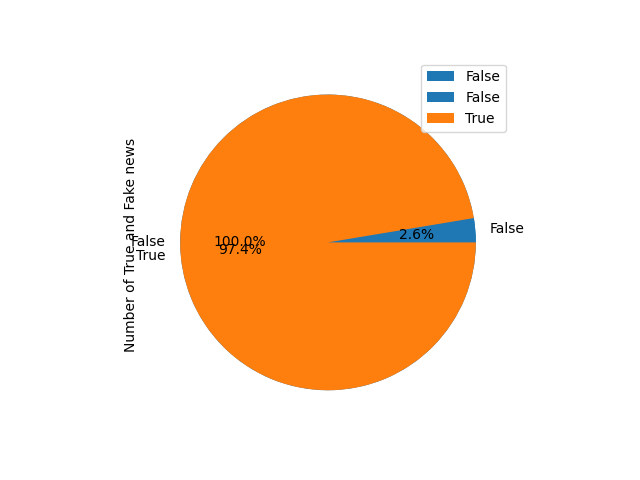
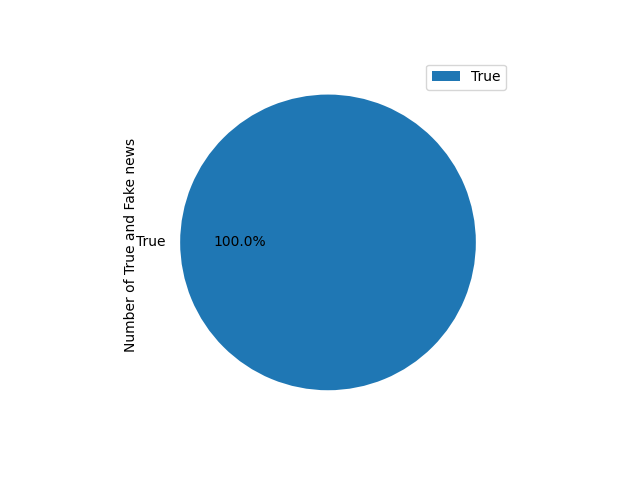
Alterando o grid search e os algoritmos de detecção de outlier

Changed region(s): [[0.2812, 0.125, 0.7812, 0.8125], [0.1875, 0.4688, 0.25, 0.5625], [0.75, 0.4688, 0.8125, 0.5]]

diff --git a/GridSearch.py b/GridSearch.py
@@ -13,19 +13,19 @@ from ProcessamentoDataset import pre_processamento
 def OSVMParams(train, resultTrain):
     # Rodando o GridSearchCV para o One Class SVM
     microF1 = make_scorer(f1_score , average='micro')
-    OSVMgridSearchParameters = {'C': [1, 10, 100, 1000], 'gamma': [0.1, 0.01, 0.001, 0.0001, 0.00001,  'auto', 'scale'], 'kernel': ['linear', 'poly', 'rbf', 'sigmoid'], 'degree':[2, 3, 4]}
-
+    OSVMgridSearchParameters = {'gamma': [0.1, 0.01, 0.001, 0.0001, 0.00001,  'auto', 'scale'], 'kernel': ['linear', 'poly', 'rbf', 'sigmoid'], 'degree':[2, 3, 4]}
+    
     svc = svm.SVC()
     OSVM = GridSearchCV(svc, OSVMgridSearchParameters , scoring= microF1, verbose=100)
     OSVM.fit(train, resultTrain)
-    OSVMc = OSVM.best_estimator_.C
+    # OSVMc = OSVM.best_estimator_.C
     OSVMdegree = OSVM.best_estimator_.degree
     OSVMgamma = OSVM.best_estimator_.gamma
     OSVMkernel = OSVM.best_estimator_.kernel
     OSVMResults = pd.DataFrame(OSVM.cv_results_)
     OSVMResults.to_csv(r'./assets/OSVM.csv')
     
-    return OSVMc, OSVMdegree, OSVMgamma, OSVMkernel
+    return  OSVMdegree, OSVMgamma, OSVMkernel
 
 def EEParams(train, resultTrain):   
     # Rodando o GridSearchCV para o Elliptic Envelope
@@ -76,12 +76,5 @@ def IFParams(train, resultTrain):
     IFn_jobs = IF.best_estimator_.n_jobs
     IFResults = pd.DataFrame(IF.cv_results_)
     IFResults.to_csv(r'./assets/IFResults.csv')
-<<<<<<< HEAD:gridSearch.py
 
     return IFcontamination, IFmax_features, IFmax_samples, IFn_estimators, IFn_jobs
-=======
-    print("IF  best params: ", IF.best_params_)
-    print("IF  Best score: ", IF.best_score_)
-    print("Tempo em s do GridSearchIF", time.time() - ptimeinit)
-    return IFcontamination, IFmax_features, IFmax_samples, IFn_estimators, IFn_jobs
->>>>>>> 2b4bb723f5c4fd0a0c0f76f3f3eed00bcdb11b2c:GridSearch.py

diff --git a/OneClassSVM.py b/OneClassSVM.py
@@ -19,7 +19,7 @@ def runOneClassSVM(train, test, resultTest, resultTrain):
 
     ptimeinit = time.time()
 
-    OSVMc, OSVMdegree, OSVMgamma, OSVMkernel = OSVMParams(train, resultTrain)
+    OSVMdegree, OSVMgamma, OSVMkernel = OSVMParams(train, resultTrain)
 
     ocs = OneClassSVM(gamma = OSVMgamma, degree = OSVMdegree, kernel = OSVMkernel).fit(train)
 
@@ -39,10 +39,6 @@ def runOneClassSVM(train, test, resultTest, resultTrain):
 
     plt.savefig('./graphs/truefakeresultOSVM.png')
 
-<<<<<<< HEAD:oneClassSVM.py
     metricData = [acc_metric, precision_metric, f1_metric, recall_metric , totalTime]
     OSVMmetrics = pd.DataFrame(metricData, columns= ['value'], index = ['accuracy', 'precision', 'f1', 'recall', 'totalTime'])
     OSVMmetrics.to_excel('./metrics/metricsOSVM.xlsx')
-=======
-    plt.show()
->>>>>>> 2b4bb723f5c4fd0a0c0f76f3f3eed00bcdb11b2c:OneClassSVM.py

diff --git a/EllipticEnvelope.py b/EllipticEnvelope.py
@@ -34,14 +34,8 @@ def runEllipticEnvelope(train, test, resultTest, resultTrain):
     result_df.groupby('freq').size().plot(ylabel = 'Number of True and Fake news ', kind='pie', legend = True, autopct='%1.1f%%')
     totalTime = time.time() - ptimeinit
 
-<<<<<<< HEAD:ellipticEnvelope.py
     plt.savefig('./graphs/truefakeresultEE.png')
     
     metricData = [acc_metric, precision_metric, f1_metric, recall_metric , totalTime]
     OSVMmetrics = pd.DataFrame(metricData, columns= ['value'], index = ['accuracy', 'precision', 'f1', 'recall', 'totalTime'])
     OSVMmetrics.to_excel('./metrics/metricsEE.xlsx')
-=======
-    print("Tempo em s do EE", time.time() - ptimeinit)
-
-    plt.show()
->>>>>>> 2b4bb723f5c4fd0a0c0f76f3f3eed00bcdb11b2c:EllipticEnvelope.py

diff --git a/main.py b/main.py
@@ -7,7 +7,7 @@ from Quebra_df import quebraDF
 
 if __name__ == "__main__":
 
-    quebraDF(200)
+    quebraDF(10000)
     train, test, resultTest, resultTrain = pre_processamento()
     runOneClassSVM(train, test, resultTest, resultTrain)
     # runEllipticEnvelope(train, test, resultTest, resultTrain)

diff --git a/ProcessamentoDataset.py b/ProcessamentoDataset.py
@@ -42,6 +42,7 @@ def remove_stopwords(text):
 
 #Doing stemming
 def lemma(text):
+    word_filtered = []
     for i in text.split():
         word_tokens = word_tokenize(i)
         word_filtered = []
